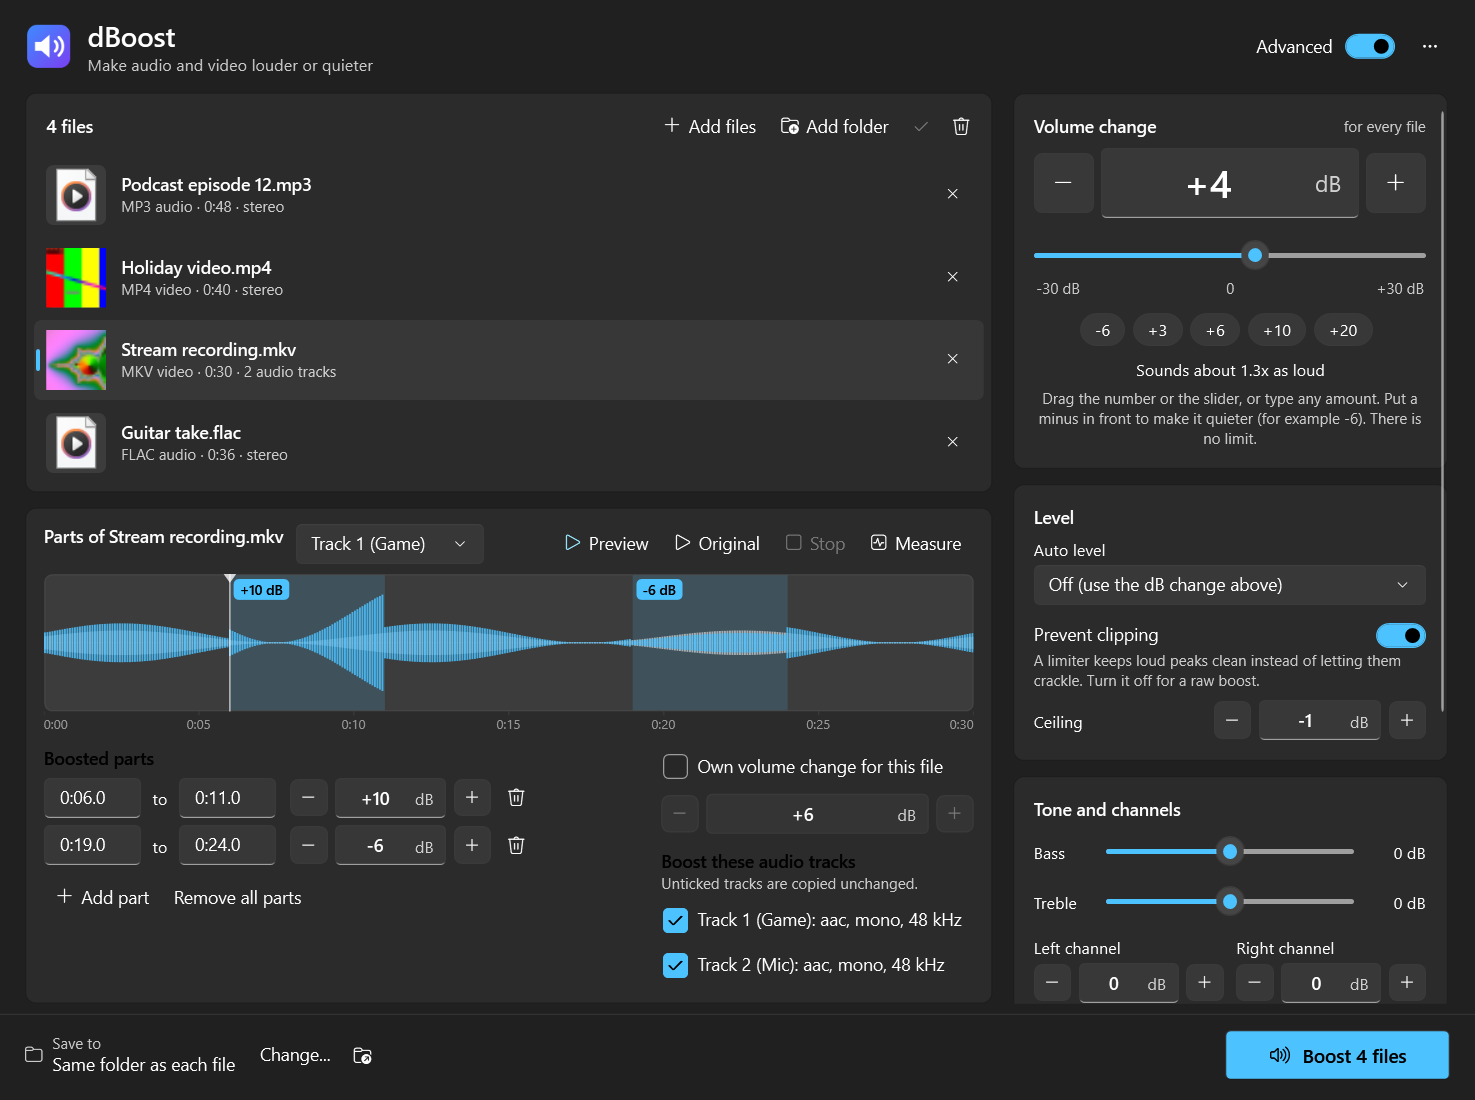
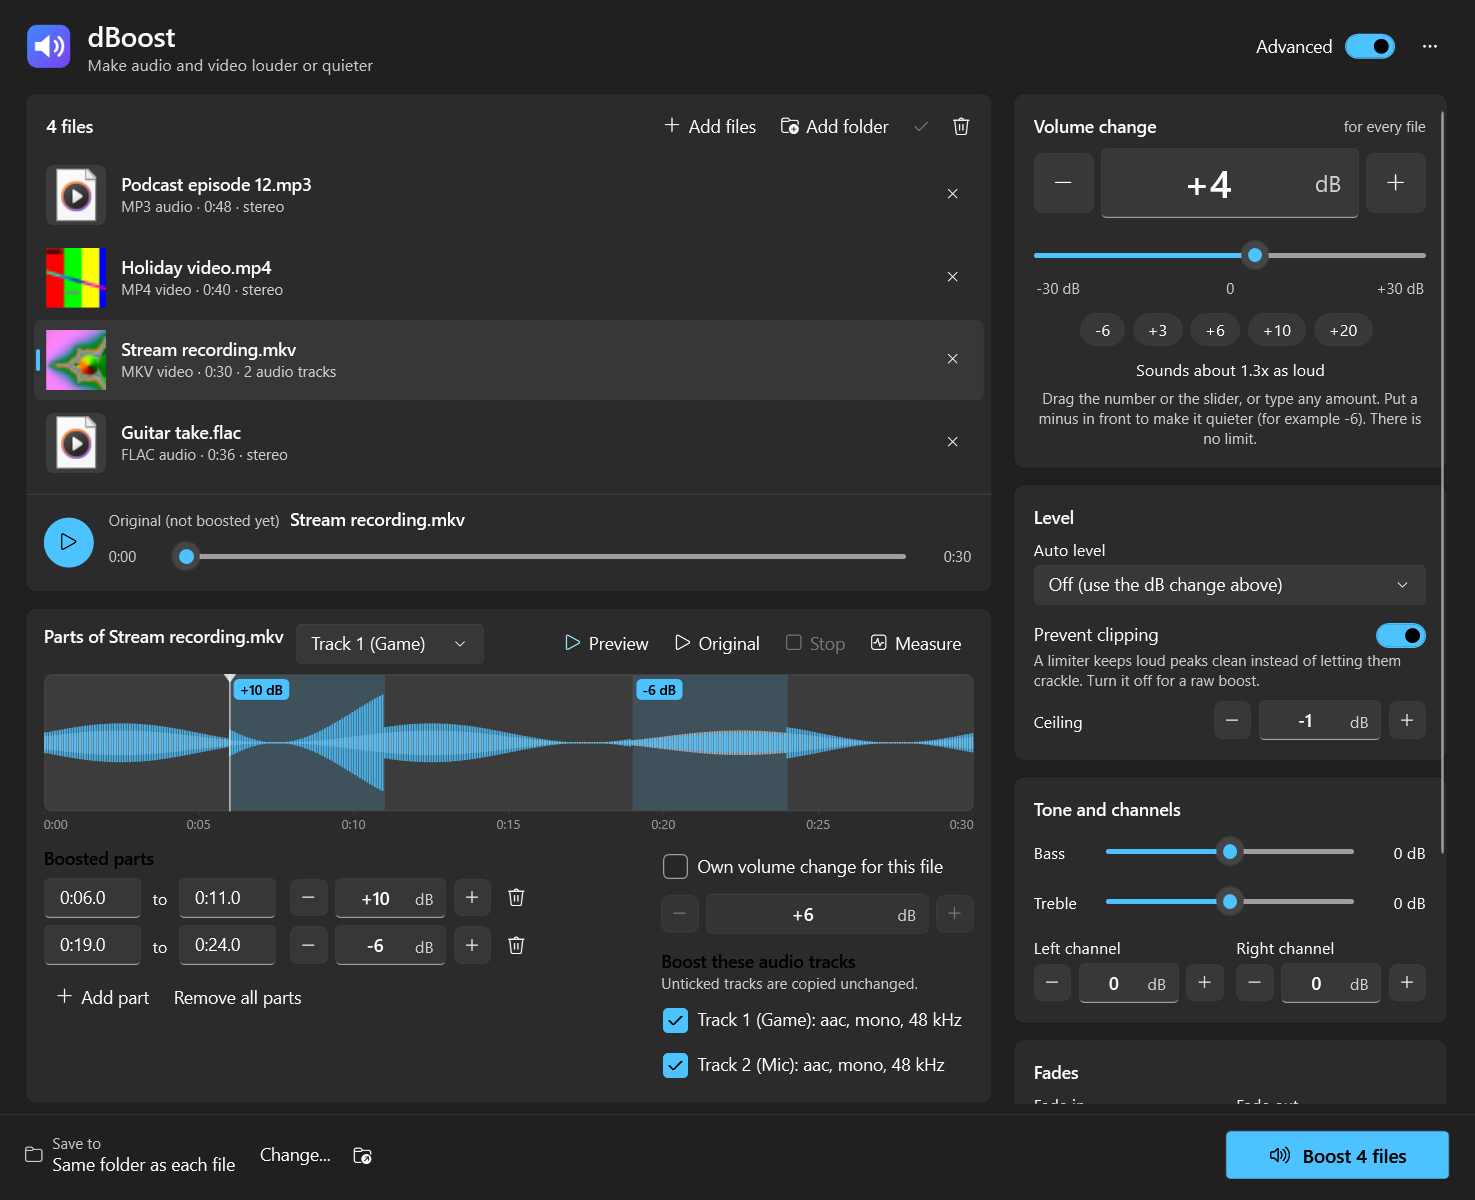
Show the player in the README screenshots and credit NAudio

diff --git a/THIRD-PARTY-NOTICES.md b/THIRD-PARTY-NOTICES.md
@@ -20,6 +20,11 @@ That FFmpeg build includes these libraries, each under its own licence (LGPL-com
 LAME (libmp3lame, LGPL), Opus (BSD), Vorbis and Ogg (BSD), and others listed by `ffmpeg -version`.
 See https://ffmpeg.org/legal.html.
 
+## NAudio
+
+The player uses [NAudio](https://github.com/naudio/NAudio) 2.2.1 (NAudio.Core and NAudio.WinMM) to send
+sound to Windows. MIT licence, Copyright 2020 Mark Heath.
+
 ## .NET
 
 The exe is a self-contained .NET 10 application and includes the .NET runtime and WPF

diff --git a/README.md b/README.md
@@ -35,6 +35,8 @@ then **Run anyway**.
 
 Results go next to each original. Click **Change...** at the bottom to save them all into one folder.
 
+![Listening to a boosted file](docs/done-light.png)
+
 ## Advanced mode
 
 Switch on **Advanced** (top right) for more control. With it off, dBoost just changes the volume of
